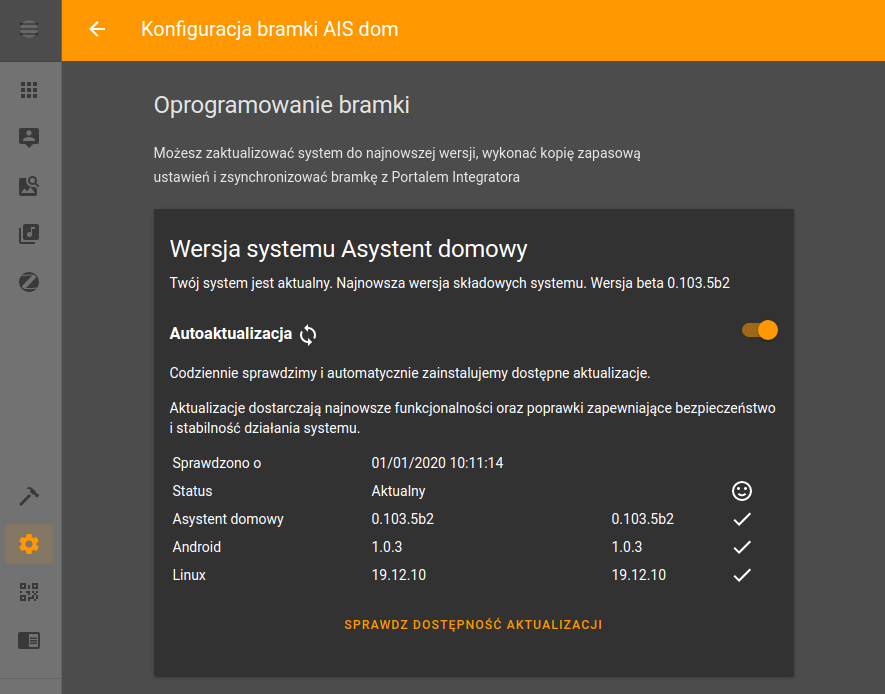
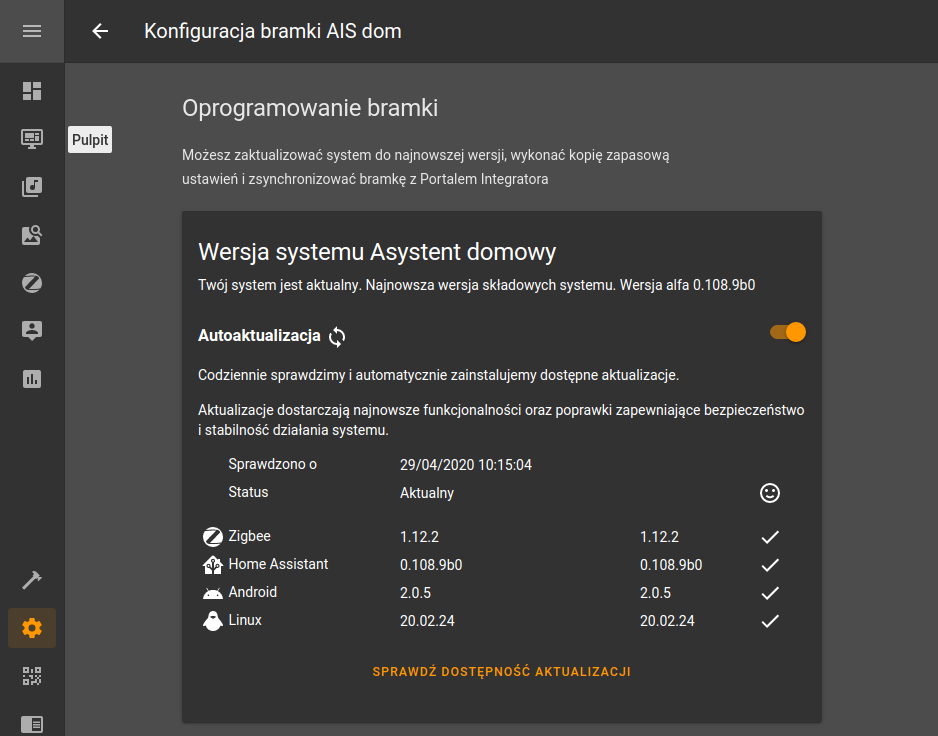
0.108.9

Changed region(s): [[0.1525, 0.121, 0.9153, 0.9683], [0.0, 0.0, 1.0, 1.0], [0.6712, 0.7262, 0.7627, 0.8775]]

diff --git a/blog/2020-04-29-release-notes.md b/blog/2020-04-29-release-notes.md
@@ -7,10 +7,12 @@ title: Wersja systemu 0.108.9
 tags: [zigbee, mqtt, home assistant]
 ---
 
-# 0.108.9 🥳
+# 0.108.9 Zigbee, Ikony, Poprawki 🥳
 
-- 🐛
-- 🐝
+- ![Zigbee](/img/en/blog/202004/honeybee.png) Aktualizacja Zigbee2Mqtt [692 urządzenia od 123 różnych producentów](https://www.zigbee2mqtt.io/information/supported_devices.html)
+- ![Icons](/img/en/blog/202004/picture.png) Ikony i loga w aplikacji
+- ![Icons](/img/en/blog/202004/house.png) Nowy Home Assistant
+- ![Bugs](/img/en/blog/202004/bug.png) Poprawki błędów
 
 
 
@@ -24,23 +26,47 @@ UWAGA Przed aktualizacją zalecamy wykonać [kopię zapasową konfiguracji](/doc
 W razie problemów po aktualizacji sprawdź procedurę [Aktualizacja ręczna](/docs/ais_bramka_update_manual) lub [Wykonanie pełnego resetu aplikacji](/docs/ais_bramka_reset_ais_step_by_step)- to może dotyczyć szczególnie osób, które instalują na bramce dodatkowe niestandardowe komponenty.
 :::
 
-# 1
+## ![Zigbee](/img/en/blog/202004/honeybee.png) Aktualizacja Zigbee2Mqtt
+
+### [692 urządzenia od 123 różnych producentów](https://www.zigbee2mqtt.io/information/supported_devices.html) 🥰
+
+
+Dodaliśmy możliwość wykonania kopii konfiguracji Zigbee2Mqtt. Zdecydowaliśmy się dodać to jako oddzielną opcję w aplikacji. Dzięki temu w zależności od potrzeby można dodawać/przywracać tylko kopię konfiguracji Home Assistant lub Zigbee2Mqtt albo wszystko.
+
+![Kopia konfiguracji bramki](/img/en/bramka/config_ais_dom_section1_2.png)
+
+Dodaliśmy aktualizację Zigbee2Mqtt z wersji 1.8.0 do wersji 1.12.2 (którą mamy od jakiegoś czasu przetestowaną na bramce). Kolejne stabilne wersje Zigbee2Mqtt będziemy już wydawali na bieżąco.
+Aktualizacja Zigbee2Mqtt będzie działała tak samo łatwo, jak każda aktualizacja.
+
+![Oprogramowanie bramki](/img/en/bramka/config_ais_dom_section1.png)
 
 
 
 
-# 2
+## ![Icons](/img/en/blog/202004/picture.png) Ikony i loga w aplikacji
+
+Dodaliśmy ikony i loga do naszych integracji:
+
+![Ikony](/img/en/blog/202004/icons_in_app.png)
+
+to dopiero początek, w kolejnej wersji strona integracji będzie znacznie ładniejsza i bardziej funkcjonalna :)
+
+
+
+## ![Bugs](/img/en/blog/202004/bug.png) Poprawki błędów
+
+Poprawiliśmy sporo błędów, ale to też dopiero początek. W nadchodzących wydaniach pojawi się integracja z Z-Wave oraz sporo zmian w aplikacji mobilnej - powiadomienia oraz raportowanie lokalizacji.
+To będzie nasza minimalna funkcjonalność z pudełka. Po tym skupimy się na dopracowaniu całości i poprawkach ułatwiających używanie systemu.
+
+
+Postępy z prac można śledzić w naszych repozytoriach kodu na github https://github.com/sviete
 
 
 
 
-# 3
+## ![Icons](/img/en/blog/202004/house.png) Nowy Home Assistant
 
-
-
-## Home Assistant
-
-Najnowszy (stabilny) Home Assistant <a href="https://www.home-assistant.io/blog/2020/04/08/release-108/" target="_blank">0.108.9</a>
+Najnowszy (stabilny) Home Assistant <a href="https://www.home-assistant.io/blog/2020/04/08/release-108/" target="_blank">0.108.9</a> jak zwykle sporo nowości ❤ i ułatwień 👍 
 
 
 ----
